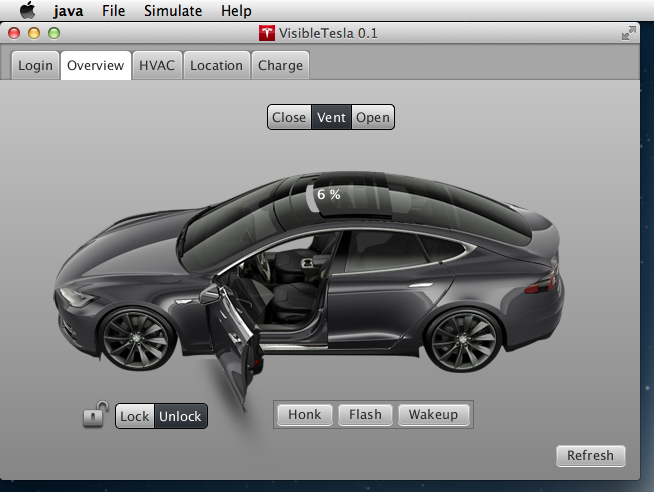
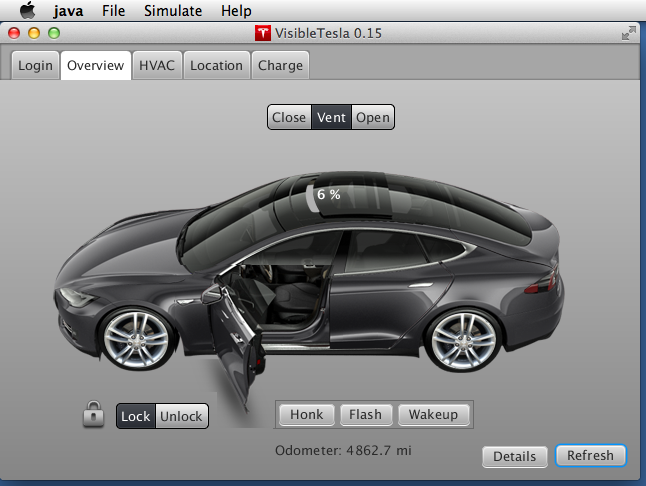
Update Documentation

Changed region(s): [[0.0, 0.0, 1.0, 1.0], [0.1238, 0.8025, 0.3406, 0.8951], [0.774, 0.4012, 0.805, 0.4321]]

diff --git a/Documentation/Overview.html b/Documentation/Overview.html
@@ -14,6 +14,10 @@
     apps do. Unlike those apps, VisibleTesla is not official, not from Tesla,
     and not supported.</p>
 
+    <p>VisibleTesla is free for personal and non-commercial use. It is based on
+    the work of many members of the <a href="http://www.teslamotorsclub.com/forum.php">
+    Tesla Motors Club Forum</a>.</p>
+
     <p><strong>Disclaimer:</strong> <em>Be careful</em> when using this software as it can
     lock and unlock your car as well as control various functions relating to
     the charging system, sun roof, lights, horn, and other subsystems of the
@@ -31,59 +35,82 @@
     the doors, opening the sun roof, or reducing the available charge in the
     battery.</p>
 
-    <h2><a id="introduction" name="introduction">Introduction</a></h1>The app
-    has a tabbed interface with one tab per functional area. When you launch
-    you start out in a login tab and the other tabs are disabled until you log
-    in. If you've logged in before then it automatically logs you in again
+    <h2><a id="introduction" name="introduction">Introduction</a></h1>VisibleTesla
+    has a tabbed interface with one tab per functional area. The following sections
+    describe each of the tabs. The screenshots are representative and may not
+    reflect exactly what you'll see. For example, these screen shots were taken on a Mac.</p>
+
+    <h3>Login Tab</h3>
+    When you launch the app
+    you'll start out in a login tab. The other tabs will be disabled until you log
+    in. If you've logged in before then the app will automatically log you in again
     based on stored cookies. This screenshot shows the logged-in state:
 
     <p><img alt="Login Tab" border="0" src="images/01_Login_Tab.png" /></p>
+    <h3>Overview Tab</h3>
 
     <p>The Overview tab shows basic state about the vehicle and gives access to
     commands like lock/unlock, operating the panoramic roof (if you have one),
-    flashing the lights, etc. These screen shots show the overview tab
-    reflecting various states of the car. The roof was vented using the "Vent"
-    button.</p>
-
-    <p>
-    <img border="0" src="images/02_Overview_Tab.png" />
-    <img border="0" src="images/03_Overview_Vented.png" />
-    <img border="0" src="images/04_Overview_Door_Open.png" />
+    flashing the lights, etc.These screen shots show the overview tab
+    reflecting various states of the car. The second screen shows an
+    information dialog that gives details about your car.
     </p>
+
+    <p><img border="0" src="images/02_Overview_Tab.png" /></p>
+    <p><img border="0" src="images/02a_Overview_Details.png" /></p>
+    <p>The next screen shot shows the panoramic roof in the vented state. The user
+        vented the roof by pressing the Vent button. The next screenshot shows
+        wht the app will display when the driver's door is open.<p>
+    <p><img border="0" src="images/03_Overview_Vented.png" /></p>
+    <p><img border="0" src="images/04_Overview_Door_Open.png" /> </p>
+    
+    <h3>HVAC Tab</h3>
 
     <p>Next we have the HVAC tab which shows the state of that system. It also
     allows you to set the target temperature and turn on/off the system.</p>
 
     <p><img border="0" src="images/05_HVAC_Tab.png" /></p>
 
+    <h3>Location Tab</h3>
+
     <p>The location tab embeds a Google map to show the current location and
     the marker is rotated to show the current heading. There is a "Browse"
     button that will launch a browser displaying a Google map with the car's
-    location so you can get directions, etc.</p>
+    location so you can get directions or perform any other Google map function.</p>
 
     <p><img border="0" src="images/06_Location_Tab.png" /></p>
+    <p>Like a normal Google Map, you can zoom in and out, you can pan, and switch to satellite
+        mode. If you click on the arrow representing your Tesla, an info window will pop
+        up displaying the street address that is closest to your car.</p>
+        <p><b>Note:</b> If you pan the map such that the marker for your car is no longer
+            displayed, the map will automatically pan back upon the next refresh.</p>
+    <p><img border="0" src="images/06a_Location_Info.png" /></p>
+
+    <h3>Charge Tab</h3>
 
     <p>The last tab shows the charge state and allows you to set the charge
     target (max or std) and start/stop charging. The screen shots show the car
     when not connected to a charger, connected but not charging, and charging.
-    In this case it is connected to an HPWC which is still limited to 60A.</p>
+    In this case it is connected to an HPWC which is set to 60A.</p>
 
     <p><img border="0" src="images/07_Charge_Tab.png" />
     <img border="0" src="images/08_Charge_Plugged_In.png" />
     <img border="0" src="images/09_Charging.png" /></p>
 
+    <h3>Auto-Refresh</h3>
     <p>This screen shot shows the "spinner" that is displayed when the app is
     communicating with the vehicle. Each tab has a refresh button and the app
     auto-refreshes once 15 seconds have elapsed since the last manual or
-    automatic refresh. Switching tabs does an auto refresh on the newly
+    automatic refresh. Switching tabs automatically refreshes the newly
     selected tab.</p>
 
     <p><img border="0" src="images/12_Auto_Refresh.png" /></p>
 
-    <p>Finally, I added a simulation menu so I could look at vehicle
-    configurations other than my own. These screen shots show changing the
-    color to red and using dark rims. I don't have images for every possible
-    configuration including the 19" wheels which I happen to have.</p>
+    <h3>Simulation Menu</h3>
+
+    <p>The simulation menu allows you to look at car configurations other than your own.
+        These screen shots show changing the
+    color to red and using 21" dark rims.</p>
 
     <p><img border="0" src="images/10_Simulate_Color_Red.png" />
     <img border="0" src="images/11_Simulate_Dark_Rims.png" /></p>
